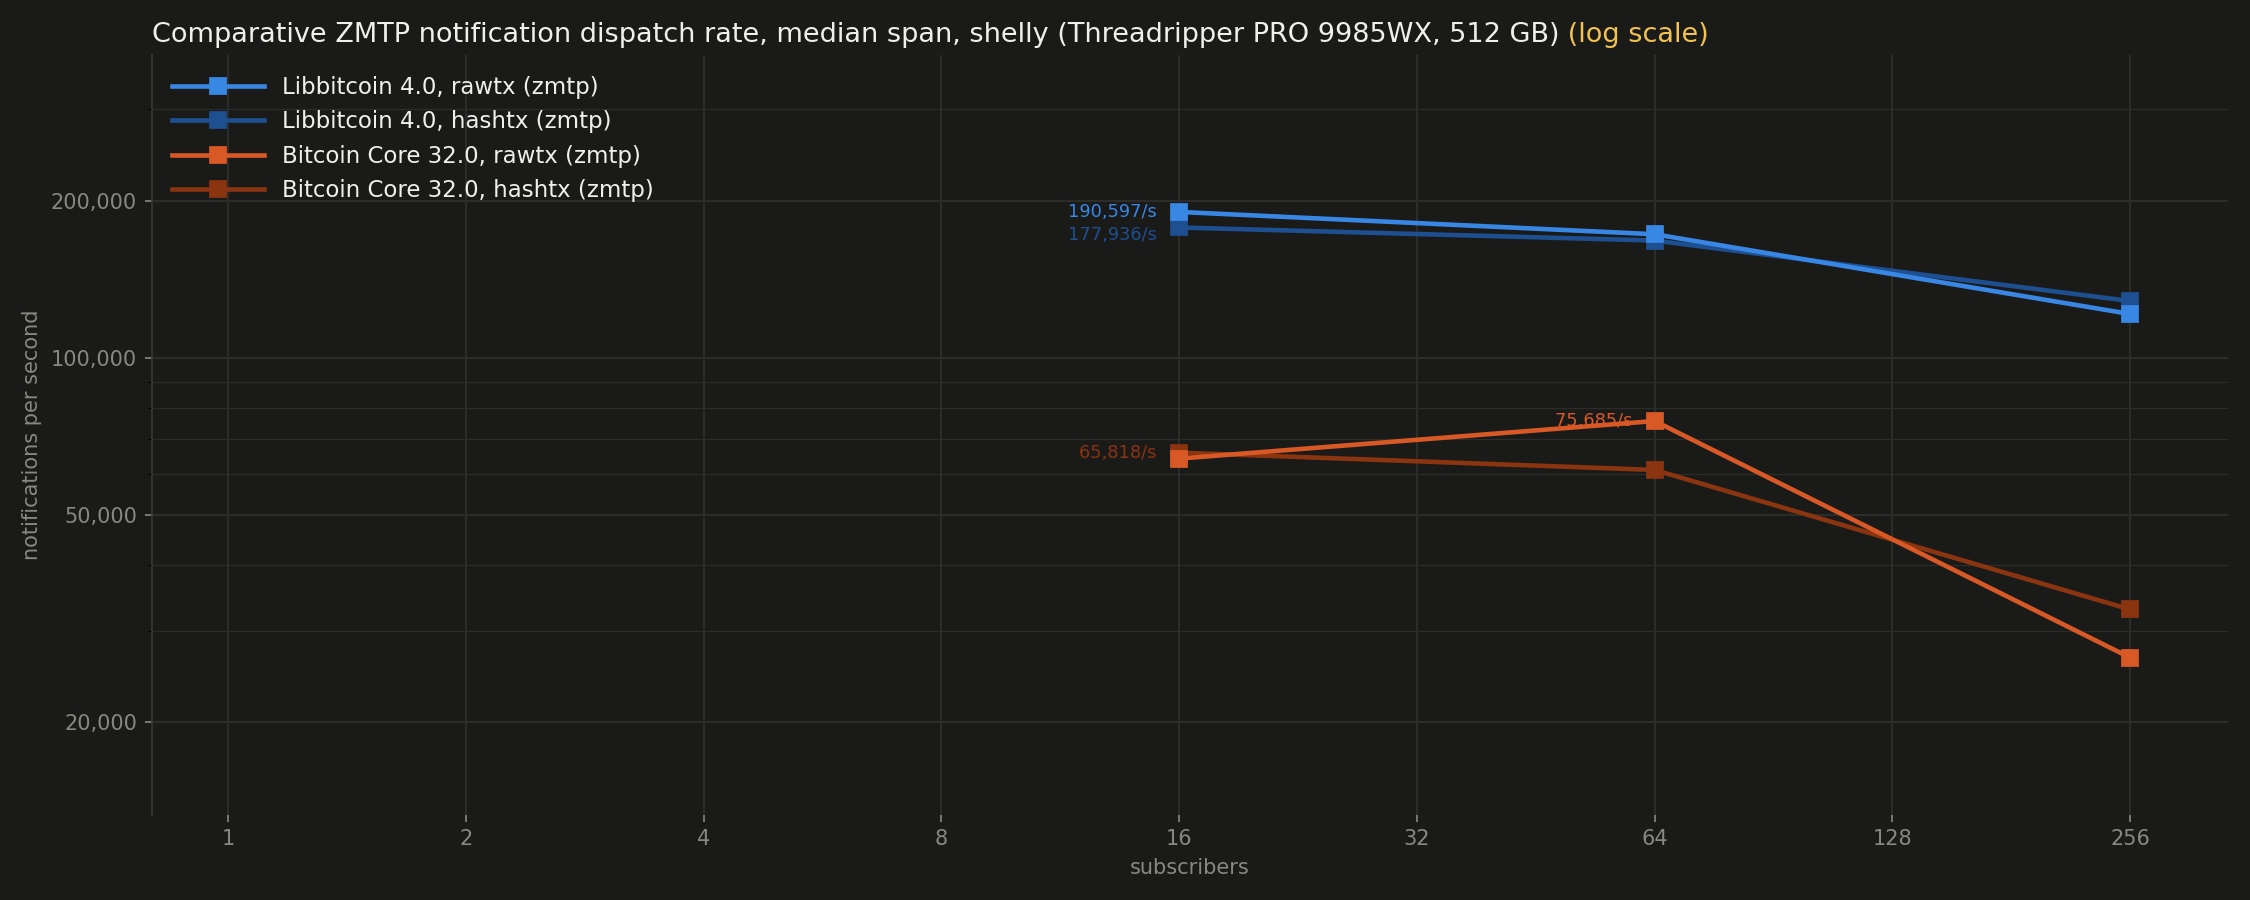
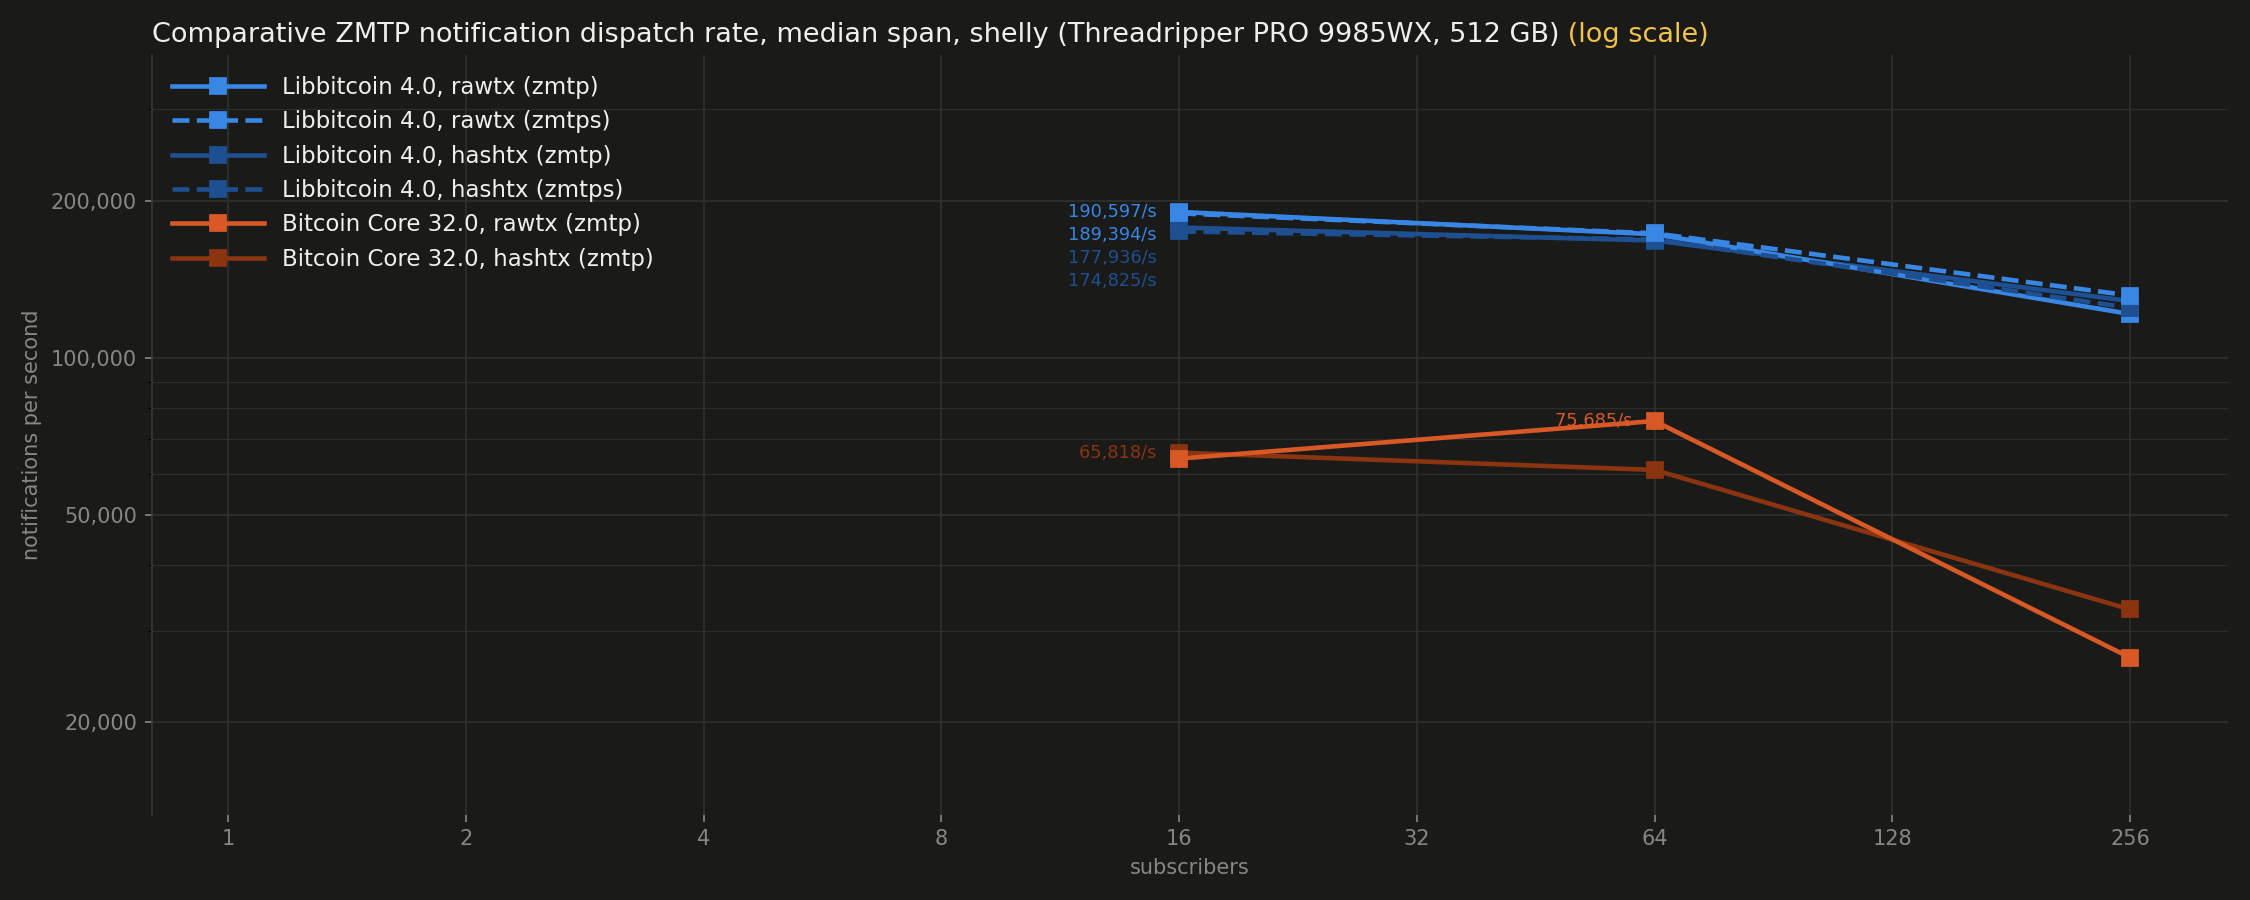
Updates.

diff --git a/interface-performance.html b/interface-performance.html
@@ -487,8 +487,8 @@
       unsatisfied relative lock times (BIP68), and 627 spend outputs of those.
     </p>
     <p class="lede after">
-      Dispatch is measured with 16 to 256 subscribers on one unencrypted ZMTP endpoint, the same
-      transactions offered at 500 per second. For each notification, the span from its arrival at
+      Dispatch is measured with 16 to 256 subscribers on one ZMTP endpoint (CurveZMQ dashed, Libbitcoin
+      only), the same transactions offered at 500 per second. For each notification, the span from its arrival at
       the first subscriber to its arrival at the last is taken, and the rate is the subscribers
       reached after the first per second of the median span. At 256 subscribers Libbitcoin delivers
       each notification to all of them in about 2 ms, Bitcoin Core in 8 to 10 ms.
